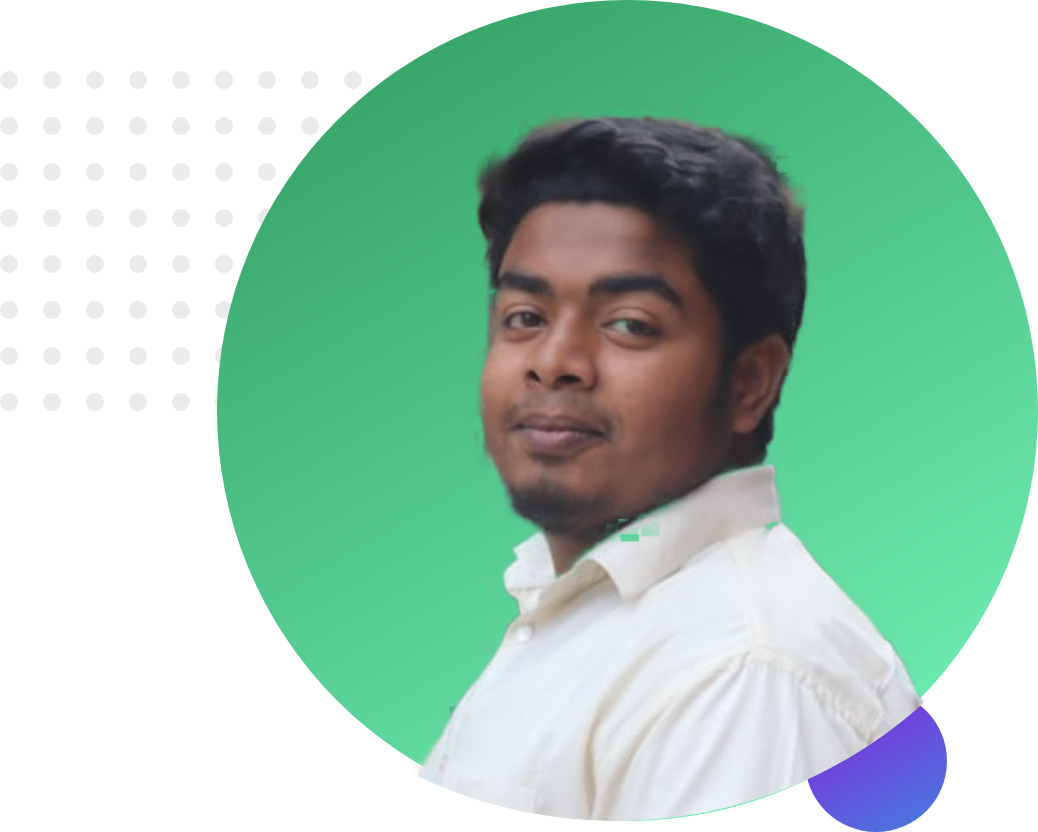
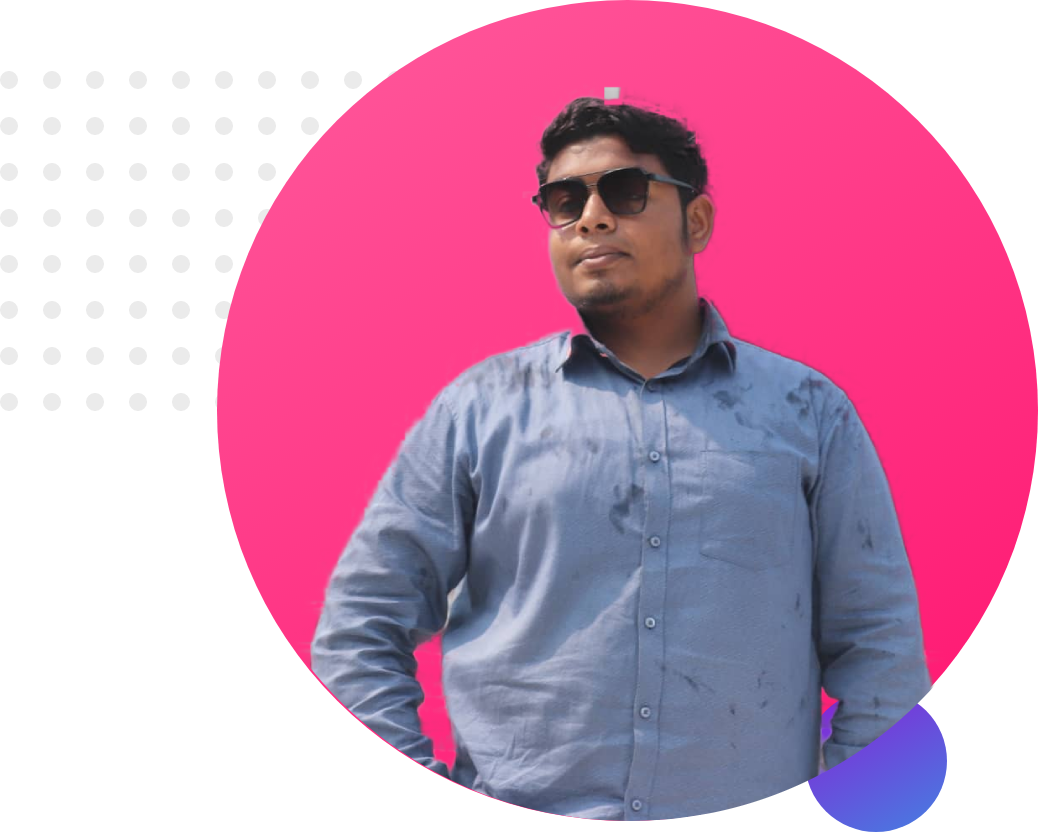
finished my first ever website

diff --git a/index.html b/index.html
@@ -8,10 +8,10 @@
     <link rel="stylesheet" href="style.css">
 </head>
 <body>
-    <section>
+    <section class="top-banner">
         <div class="half-width">
-            <h1>Welcome To</h1>
-            <h1>
+            <h1>Welcome To
+                <br>
                 <span class="name-highlight">Al Amin 
                 </span>Website
             </h1>
@@ -20,11 +20,44 @@
             </h3>
             <p>
                 I am still learning HTML, CSS, Bootstrap, JavaScript, Jquery, Rest Api, Node, React, Responsive Web Design, Photoshop, PSD to HTML, Wordpress, etc. Please pray for me that I provide you a good service.
+                Please pray for me that I provide you a good service. Please pray for me that I provide you a good service. Please pray for me that I provide you a good service.
             </p>
+            <a class="link-button" href="https://www.linkedin.com/feed/?trk=guest_homepage-basic_nav-header-signin" target="_blank">HIRE ME
+            </a>
+
+
         </div>
-        <div class="half-width">
+        <div class="half-width x">
             <img src="images/profile1.png" alt="">
         </div>
     </section>
+    <section class="dream-area ">
+        <div class="half-width y">
+            <img src="images/profile2.png" alt="">
+        </div>
+        <div class="half-width t">
+                <h2>Big Dream</h2>
+                <h3>Become a Full Stack Web Developer</h3>
+                <p>I already learned the basic HTML and CSS. I can build any simple website. I can even teach my grandma how to make simple website. My goal is to build 3 websites and learn advanced topics. My goal is to build 3 websites and learn advanced topics. My goal is to build 3 websites and learn advanced topics.</p>
+                <a class="link-button" href="https://www.linkedin.com/feed/?trk=guest_homepage-basic_nav-header-signin" target="_blank">DOWNLOAD RESUME
+                </a>
+        </div>
+    </section>
+    <section class="experience">
+        <h2 class="senter">Experiences</h2>
+    <div id="full-stack" class="half-width single-experience">
+        <h2>Full Stack Web Developer</h2>
+        <h3 class="name-highlight">2021-Present | Pro Level Develope</h3>
+        <p>I am the master of HTML, CSS and Javascript. I know everything needed to make a website function, efficient. I didn't stop with the web. I went beyond with most popular Javascript framework called Vue JS. I even know the deployment, server and security. I will give you 100% web solution.</p>
+    </div>
+    <div id="baby-web" class="half-width single-experience">
+        <h2>Baby Web Developer</h2>
+        <h3 class="name-highlight">2020-2021 | Programming Hero Learner</h3>
+        <p>They didn't offer me a job. But I made myself as a remove web developer. I made their website and showed it to them. They liked it. And uploaded the content. It was fun working at Programming Hero</p>
+    </div>
+</section>
+<footer class="fooyer">
+    <p>© Md AL Amin 2021 , all right reseved.</p>
+</footer>
 </body>
 </html>

diff --git a/style.css b/style.css
@@ -1,19 +1,97 @@
 body{
     font-family: 'Poppins', sans-serif;
+    margin: 0px;
 }
 h1{
     font-size: 50px;
     
 }
+h2{
+    font-size: 40px;
+}
+p{
+    color: dimgray;
+
+}
 .name-highlight{
-    color: orange;
+    color: #e81165d9;
 }
 .half-width{
     width: 40%;
     float: left;
     margin-left: 5%;
-    padding-left: 2%;
+    padding-left:2%;
 }
 .half-width img{
-    width: 100%;
+    width: 95%;
 }
+.top-banner{
+    background-image: url("images/top-banner.png");
+    background-repeat: no-repeat ;
+}
+section{
+    height: 500px;
+    padding-bottom: 70px;
+}
+.link-button{
+    text-decoration: none;
+    background-image: linear-gradient(60deg,#69e5aa,#41b076,#25d4a3);
+    padding: 10px 20px;
+    border-radius: 8px;
+    color: snow;
+    font-weight: 700px;
+
+
+}
+.x{
+    padding-top: 20px;
+}
+.y{
+    margin-right: 4px;
+    margin-top: 20px;
+}
+.t{
+    margin-bottom: 30px;
+    margin-right: 0px;
+    padding: 1px;
+}
+
+.dream-area{
+    background-image: url("images/dream-bg.png");
+    background-repeat: no-repeat;
+    background-position: right;
+    background-size: 7%;
+
+}
+.senter{
+    text-align: center;
+}
+.single-experience{
+    box-shadow: 10px 10px 40px gray;
+    border-radius: 15px;
+    height: 70%;
+    background-color: white;
+}
+.experience{
+    background-image: url("images/exp-bg.png");
+    background-repeat: no-repeat;
+    background-position: left;
+
+}
+
+#full-stack {
+    border-left: 7px solid;
+    border-image: linear-gradient(180deg, lightsalmon, tomato);
+    border-image-slice: 1;
+}
+
+#baby-web {
+    border-left: 7px solid;
+    border-image: linear-gradient(180deg, blue,cyan);
+    border-image-slice: 1;
+}
+footer{
+    text-align: center;
+    font-size: 18px;
+}
+
